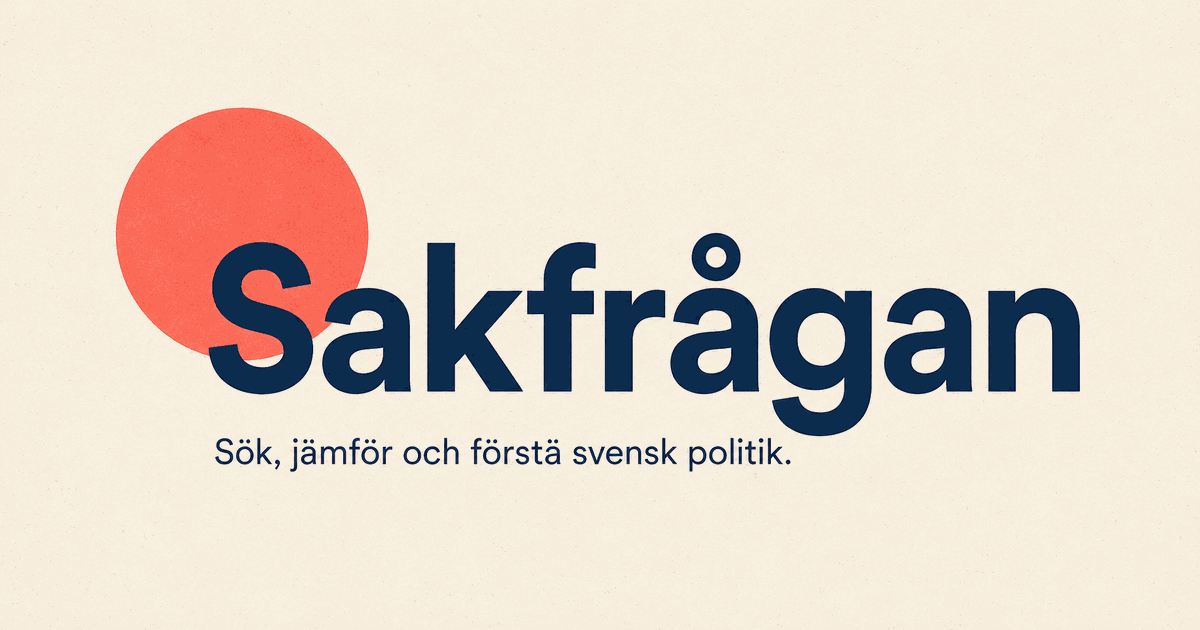
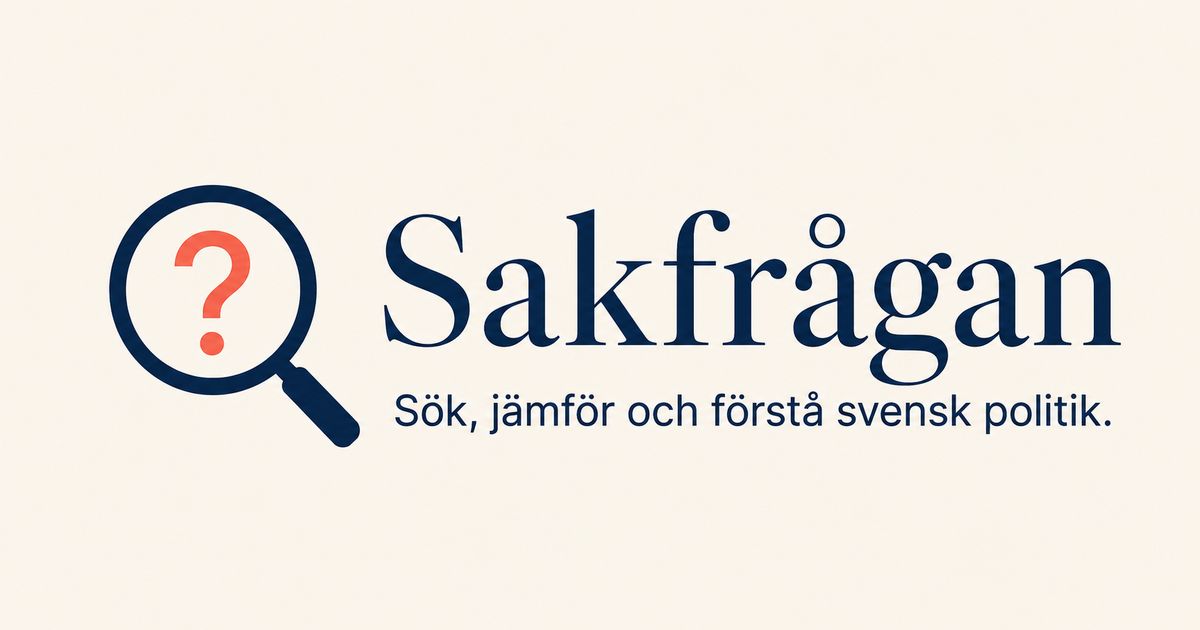
Inför Sakfrågans nya visuella identitet

Changed region(s): [[0.0925, 0.1508, 0.925, 0.754]]

diff --git a/app/globals.css b/app/globals.css
@@ -21,8 +21,10 @@ button:focus-visible, input:focus-visible, select:focus-visible, a:focus-visible
 h1, h2, h3, p { margin-top: 0; }
 
 .topbar { min-height: 76px; padding: 0 4vw; display: grid; grid-template-columns: 1fr auto 1fr; align-items: center; border-bottom: 1px solid rgba(16,35,60,.12); background: rgba(246,243,235,.94); position: sticky; top: 0; z-index: 30; backdrop-filter: blur(18px); }
-.brand { display: inline-flex; align-items: center; gap: 11px; font-family: Georgia, serif; font-size: 22px; font-weight: 700; background: none; border: 0; padding: 0; width: max-content; }
-.brandMark { width: 35px; height: 35px; border-radius: 50%; display: grid; place-items: center; color: white; background: var(--accent); font-family: Arial, sans-serif; font-size: 18px; font-weight: 800; }
+.brand { display: inline-flex; align-items: center; gap: 9px; color: var(--ink); font-family: Georgia, serif; font-size: 22px; font-weight: 700; background: none; border: 0; padding: 0; width: max-content; text-decoration: none; cursor: pointer; }
+.brandSymbol { width: 43px; height: 43px; flex: 0 0 auto; display: block; color: currentColor; }
+.brandSymbol svg { width: 100%; height: 100%; display: block; }
+.brandWord { display: block; letter-spacing: -.035em; }
 .topbar nav { display: flex; gap: 6px; padding: 4px; border: 1px solid rgba(16,35,60,.12); border-radius: 999px; background: rgba(255,255,255,.52); }
 .topbar nav button { border: 0; background: transparent; padding: 9px 15px; border-radius: 999px; color: var(--muted); font-size: 14px; cursor: pointer; }
 .topbar nav button.active { color: white; background: var(--ink); }
@@ -202,6 +204,7 @@ h1, h2, h3, p { margin-top: 0; }
 .methodCard > p { margin: 0; color: #d9e0e7; line-height: 1.75; }
 
 .footer { min-height: 120px; padding: 35px 4vw; background: var(--ink); color: white; display: grid; grid-template-columns: 1fr auto 1fr; align-items: center; gap: 30px; }
+.footer .brand { color: white; }
 .footer p { margin: 0; color: #aebac6; font-size: 12px; }
 .footer button { justify-self: end; background: none; border: 0; color: white; text-decoration: underline; cursor: pointer; }
 .modalBackdrop { position: fixed; inset: 0; background: rgba(8,21,36,.62); z-index: 50; display: flex; justify-content: flex-end; backdrop-filter: blur(4px); }
@@ -361,7 +364,7 @@ h1, h2, h3, p { margin-top: 0; }
 @media (max-width: 680px) {
   .topbar { min-height: 64px; }
   .brand { font-size: 19px; }
-  .brandMark { width: 31px; height: 31px; }
+  .brandSymbol { width: 38px; height: 38px; }
   .topbar nav { gap: 1px; padding: 3px; }
   .topbar nav button { padding: 9px 10px; font-size: 11px; }
   .searchStage { padding: 42px 4vw 38px; min-height: 0; }

diff --git a/app/page.tsx b/app/page.tsx
@@ -2,6 +2,7 @@
 
 import Image from "next/image";
 import { useMemo, useRef, useState } from "react";
+import BrandLogo from "./brand-logo";
 import { electionDate, lastUpdated, parties, topics, type Party } from "./data";
 import { detectSearchGoal, findPartySearchContext, findSearchIntent, inferTopic, normalizeText, partyMatchScore, queryWords, stanceMeta, stanceSortValue, type Stance } from "./search";
 
@@ -107,7 +108,7 @@ export default function Home() {
     <main>
       <header className="topbar">
         <button className="brand" onClick={() => setView("utforska")} aria-label="Gå till startsidan">
-          <span className="brandMark">S</span><span>Sakfrågan</span>
+          <BrandLogo />
         </button>
         <nav aria-label="Huvudnavigering">
           {(["utforska", "jamfor", "partier", "om"] as View[]).map((item) => (
@@ -280,7 +281,7 @@ export default function Home() {
         <div className="methodCard"><div><p className="sectionLabel">Metod</p><h2>Vad tjänsten gör</h2></div><p>Materialet sammanfattas från partiernas officiella källor. Lokal politik blandas inte med nationell politik. Fakta och analys hålls isär. Brytdatum för denna version är {lastUpdated}. Källor och nya valbesked kontrolleras dagligen fram till valet den {electionDate}.</p></div>
       </section>}
 
-      <footer className="footer"><div className="brand"><span className="brandMark">S</span><span>Sakfrågan</span></div><p>Politik på vanlig svenska. Byggd för förståelse, inte övertalning.</p><button onClick={() => setView("om")}>Metod och transparens</button></footer>
+      <footer className="footer"><div className="brand"><BrandLogo /></div><p>Politik på vanlig svenska. Byggd för förståelse, inte övertalning.</p><button onClick={() => setView("om")}>Metod och transparens</button></footer>
 
       {selectedParty && <div className="modalBackdrop" role="presentation" onMouseDown={() => setSelectedParty(null)}>
         <section className="partyModal" role="dialog" aria-modal="true" aria-labelledby="partyTitle" onMouseDown={(event) => event.stopPropagation()} style={{ "--party": selectedParty.color } as React.CSSProperties}>

diff --git a/app/granskning/review-panel.tsx b/app/granskning/review-panel.tsx
@@ -2,6 +2,7 @@
 
 import { FormEvent, useCallback, useEffect, useMemo, useState } from "react";
 import Link from "next/link";
+import BrandLogo from "../brand-logo";
 
 const REVIEW_ENDPOINT =
   "https://zcwfwfhgmsnzajzrryvm.supabase.co/functions/v1/sakfragan-review";
@@ -185,8 +186,7 @@ export default function ReviewPanel() {
       <main className="reviewShell">
         <header className="reviewHeader">
           <Link href="/" className="brand" aria-label="Till Sakfrågans startsida">
-            <span className="brandMark">S</span>
-            Sakfrågan
+            <BrandLogo />
           </Link>
           <span className="reviewHeaderLabel">Redaktion</span>
         </header>
@@ -232,8 +232,7 @@ export default function ReviewPanel() {
     <main className="reviewShell">
       <header className="reviewHeader">
         <Link href="/" className="brand" aria-label="Till Sakfrågans startsida">
-          <span className="brandMark">S</span>
-          Sakfrågan
+          <BrandLogo />
         </Link>
         <div className="reviewHeaderActions">
           <span className="reviewLive"><i /> Källflödet är anslutet</span>

diff --git a/app/brand-logo.tsx b/app/brand-logo.tsx
@@ -1,0 +1,24 @@
+type BrandLogoProps = {
+  compact?: boolean;
+};
+
+export default function BrandLogo({ compact = false }: BrandLogoProps) {
+  return (
+    <>
+      <span className="brandSymbol" aria-hidden="true">
+        <svg viewBox="0 0 140 140" fill="none" xmlns="http://www.w3.org/2000/svg">
+          <circle cx="62" cy="62" r="44" stroke="currentColor" strokeWidth="12" />
+          <path d="M93 93L124 124" stroke="currentColor" strokeWidth="12" strokeLinecap="round" />
+          <path
+            d="M45 48.5C45 35.8 54.8 27 68.3 27C81.3 27 90.5 35.2 90.5 47.3C90.5 57.4 84.7 62.7 77.1 67.4C70.9 71.3 67.7 75.6 67.7 82.5"
+            stroke="#ED5F48"
+            strokeWidth="10"
+            strokeLinecap="round"
+          />
+          <circle cx="67.7" cy="97" r="6.5" fill="#ED5F48" />
+        </svg>
+      </span>
+      {!compact && <span className="brandWord">Sakfrågan</span>}
+    </>
+  );
+}

diff --git a/app/layout.tsx b/app/layout.tsx
@@ -17,9 +17,15 @@ export const metadata: Metadata = {
     images: ["/og.png"],
   },
   icons: {
-    icon: "/favicon.svg",
+    icon: [
+      { url: "/favicon.svg", type: "image/svg+xml" },
+      { url: "/icon_192.png", sizes: "192x192", type: "image/png" },
+      { url: "/icon_512.png", sizes: "512x512", type: "image/png" },
+    ],
     shortcut: "/favicon.svg",
+    apple: [{ url: "/apple_touch_icon.png", sizes: "180x180", type: "image/png" }],
   },
+  manifest: "/site.webmanifest",
   other: {
     "codex-preview": "development",
   },
